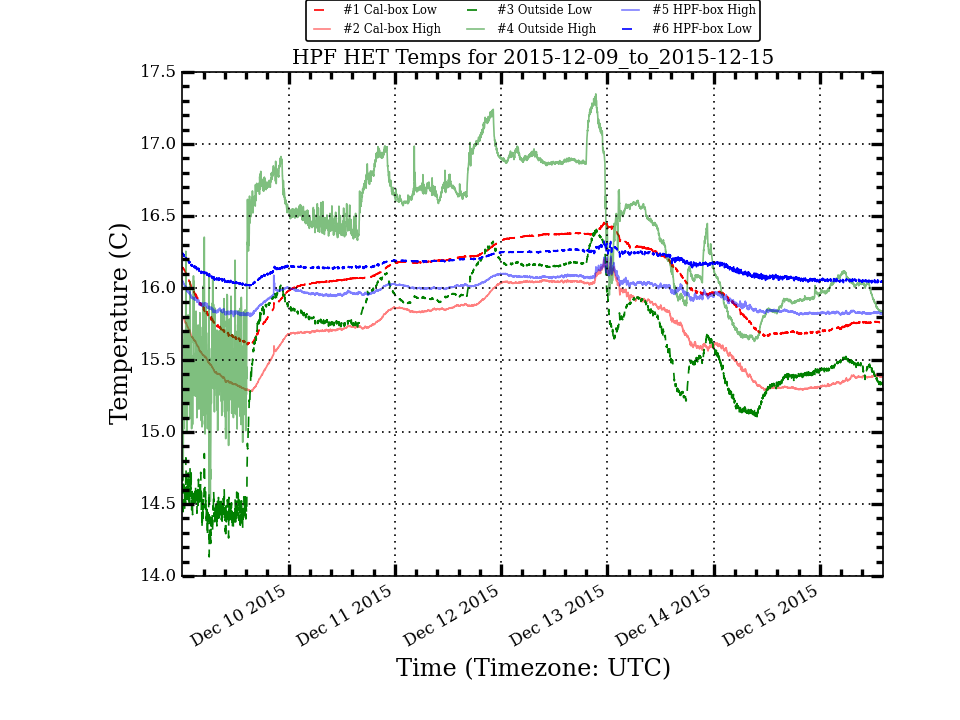
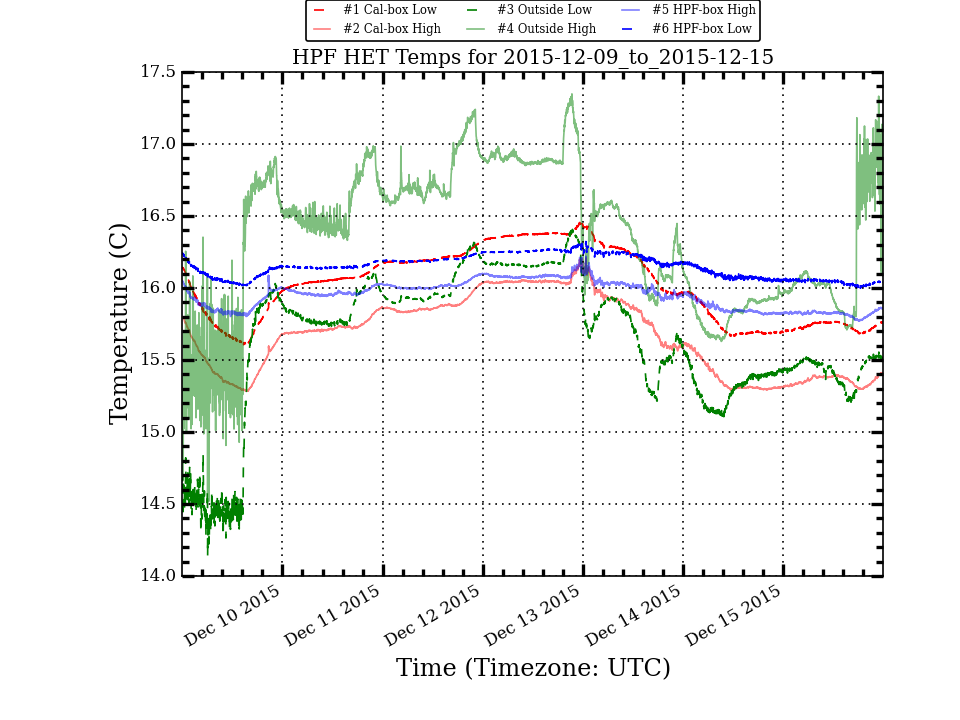
Update HPF Temp Plots

diff --git a/research/hpf_temps/plots/LakeShoreLogTotal_month_stats.html b/research/hpf_temps/plots/LakeShoreLogTotal_month_stats.html
@@ -10,56 +10,56 @@
  </TR>
  <TR>
   <TD>Cal_Low</TD>
-  <TD>16.359</TD>
-  <TD>0.261</TD>
-  <TD>16.380</TD>
+  <TD>16.351</TD>
+  <TD>0.269</TD>
+  <TD>16.376</TD>
   <TD>16.795</TD>
   <TD>15.604</TD>
   <TD>1.191</TD>
  </TR>
  <TR>
   <TD>Cal_High</TD>
-  <TD>16.012</TD>
-  <TD>0.272</TD>
-  <TD>16.039</TD>
+  <TD>16.003</TD>
+  <TD>0.281</TD>
+  <TD>16.036</TD>
   <TD>16.550</TD>
   <TD>15.284</TD>
   <TD>1.266</TD>
  </TR>
  <TR>
   <TD>Out_Low</TD>
-  <TD>16.049</TD>
-  <TD>0.369</TD>
-  <TD>16.092</TD>
+  <TD>16.041</TD>
+  <TD>0.374</TD>
+  <TD>16.086</TD>
   <TD>16.850</TD>
   <TD>14.133</TD>
   <TD>2.717</TD>
  </TR>
  <TR>
   <TD>Out_High</TD>
-  <TD>16.715</TD>
-  <TD>0.387</TD>
-  <TD>16.752</TD>
+  <TD>16.711</TD>
+  <TD>0.390</TD>
+  <TD>16.751</TD>
   <TD>18.150</TD>
   <TD>14.513</TD>
   <TD>3.637</TD>
  </TR>
  <TR>
   <TD>HPF_High</TD>
-  <TD>16.145</TD>
-  <TD>0.130</TD>
-  <TD>16.178</TD>
+  <TD>16.141</TD>
+  <TD>0.134</TD>
+  <TD>16.177</TD>
   <TD>16.441</TD>
-  <TD>15.802</TD>
-  <TD>0.639</TD>
+  <TD>15.771</TD>
+  <TD>0.670</TD>
  </TR>
  <TR>
   <TD>HPF_Low</TD>
-  <TD>16.346</TD>
-  <TD>0.124</TD>
-  <TD>16.387</TD>
+  <TD>16.342</TD>
+  <TD>0.128</TD>
+  <TD>16.386</TD>
   <TD>16.588</TD>
-  <TD>16.015</TD>
-  <TD>0.573</TD>
+  <TD>15.997</TD>
+  <TD>0.591</TD>
  </TR>
 </TABLE>

diff --git a/research/hpf_temps/plots/LakeShoreLogTotal_week_stats.html b/research/hpf_temps/plots/LakeShoreLogTotal_week_stats.html
@@ -10,56 +10,56 @@
  </TR>
  <TR>
   <TD>Cal_Low</TD>
-  <TD>16.035</TD>
-  <TD>0.249</TD>
-  <TD>16.054</TD>
+  <TD>16.017</TD>
+  <TD>0.252</TD>
+  <TD>16.041</TD>
   <TD>16.456</TD>
   <TD>15.604</TD>
   <TD>0.852</TD>
  </TR>
  <TR>
   <TD>Cal_High</TD>
-  <TD>15.690</TD>
-  <TD>0.264</TD>
-  <TD>15.712</TD>
+  <TD>15.670</TD>
+  <TD>0.268</TD>
+  <TD>15.702</TD>
   <TD>16.209</TD>
   <TD>15.284</TD>
   <TD>0.925</TD>
  </TR>
  <TR>
   <TD>Out_Low</TD>
-  <TD>15.651</TD>
-  <TD>0.487</TD>
-  <TD>15.774</TD>
+  <TD>15.637</TD>
+  <TD>0.477</TD>
+  <TD>15.760</TD>
   <TD>16.426</TD>
   <TD>14.133</TD>
   <TD>2.293</TD>
  </TR>
  <TR>
   <TD>Out_High</TD>
-  <TD>16.357</TD>
+  <TD>16.361</TD>
   <TD>0.502</TD>
-  <TD>16.471</TD>
+  <TD>16.478</TD>
   <TD>17.348</TD>
   <TD>14.518</TD>
   <TD>2.830</TD>
  </TR>
  <TR>
   <TD>HPF_High</TD>
-  <TD>15.960</TD>
-  <TD>0.094</TD>
-  <TD>15.969</TD>
+  <TD>15.951</TD>
+  <TD>0.097</TD>
+  <TD>15.963</TD>
   <TD>16.221</TD>
-  <TD>15.802</TD>
-  <TD>0.419</TD>
+  <TD>15.771</TD>
+  <TD>0.450</TD>
  </TR>
  <TR>
   <TD>HPF_Low</TD>
-  <TD>16.157</TD>
-  <TD>0.075</TD>
-  <TD>16.159</TD>
+  <TD>16.150</TD>
+  <TD>0.079</TD>
+  <TD>16.149</TD>
   <TD>16.331</TD>
-  <TD>16.015</TD>
-  <TD>0.316</TD>
+  <TD>15.997</TD>
+  <TD>0.334</TD>
  </TR>
 </TABLE>
